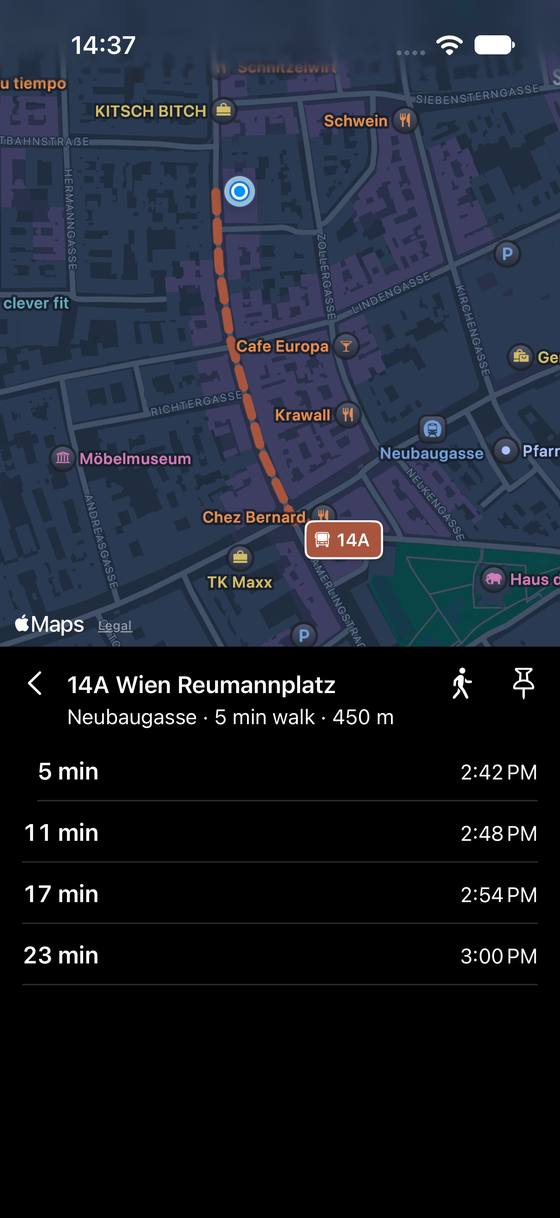
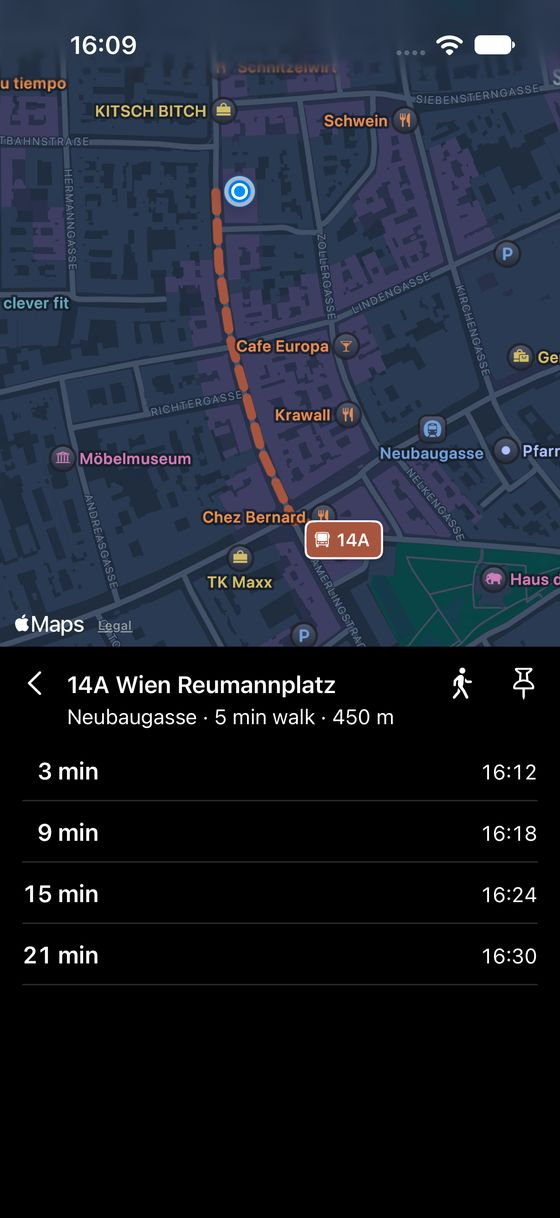
Record the stop line, dividers and swipe fixes, with new live captures
The fifth amendment's A34, A38 and A41 now describe the dividers at the
row's leading edge, the stop line under walk and pin to the 16 pt margin
with no wrapped line starting with a dot, and the swipe back from over
the map. The line screen's sketch and rules 21, 23 and 24 follow. The
captures are new live ones at 24-hour time, with the 48A before and
after for a long title and stop line.

diff --git a/docs/plans/ios-two-screens.md b/docs/plans/ios-two-screens.md
@@ -166,21 +166,22 @@ These choices filled the gaps. None has been reviewed by the owner.
 
 | ID | Question | Choice |
 | --- | --- | --- |
-| A34 | Which times share the column (O20) | The countdowns of the departures shown, "Now" included, right-aligned in a column as wide as the widest of them. The width is measured from the data, as for the badges on home (O15). A clock alone, for saved times or beyond the hour, keeps its place on the left. At accessibility sizes the stacked layout stays, with no column |
+| A34 | Which times share the column (O20) | The countdowns of the departures shown, "Now" included, right-aligned in a column as wide as the widest of them. The width is measured from the data, as for the badges on home (O15). A clock alone, for saved times or beyond the hour, keeps its place on the left. Every row's divider still starts at the row's leading edge, as before. At accessibility sizes the stacked layout stays, with no column |
 | A35 | When the choice is offered (O21) | Only when Google Maps is installed, which the app asks with `canOpenURL` on `comgooglemaps://`. Without it the button opens Apple Maps at once, as before, and a long press offers nothing. A remembered Google Maps that has been removed is forgotten, so after a reinstall the first tap asks again |
 | A36 | Where Google Maps goes | Walking directions to the stop's coordinate. Apple Maps opens as before, in walking mode to the platform |
 | A37 | The choice itself | A menu at the walk button, Apple Maps then Google Maps, with a checkmark on the remembered one. Picking an app opens it and remembers it, on this phone, for every line. The app names are not translated |
-| A38 | The controls under the map (O22) | Back (`chevron.backward`, spoken "Back"), the line and direction with the stop under them, then walk and pin, left to right. Plain symbols in the label colour, without glass capsules, each with a 44 × 44 pt target, aligned with the title's first line. The title wraps in full and is never truncated. The line is named once on the screen |
+| A38 | The controls under the map (O22) | Back (`chevron.backward`, spoken "Back"), the line and direction with the stop under them, then walk and pin, left to right. Plain symbols in the label colour, without glass capsules, each with a 44 × 44 pt target, aligned with the title's first line. The title wraps in full beside the buttons and is never truncated. The stop line below it runs from the title's leading edge to the list's 16 pt margin, under walk and pin, so a usual stop line fits on one line on a 402 pt phone. A no-break space keeps each "·" with the word before it, so a stop line that still wraps never starts with one. The line is named once on the screen |
 | A39 | The line screen at accessibility text sizes | As before: the bar holds back, walk and pin, and the map is a list row that scrolls away. A back button that scrolled out of reach would be worse than a bar |
 | A40 | Touches on the line map | Its strip under the status bar takes none, as on home (A26). The square pans and zooms as before (A17) |
-| A41 | Going back | The swipe from the left edge still goes back. Hiding the bar stopped it, so the app lets it begin again while the line screen is shown |
+| A41 | Going back | The swipe from the left edge goes back from every height, over the map as over the list. Hiding the bar stopped it, so the app lets it begin again while the line screen is shown. A pan that starts on the map, even 30 pt from the edge, still pans the map |
 | A42 | What replaces the ring (O23) | Nothing. The location dot stays at the centre, and the framing is unchanged |
 
 Found while implementing:
 
-- With the bar hidden, UIKit refuses the swipe from the left edge. The app takes over the gesture's delegate while the line screen is shown, and returns it afterwards, so the root screen never starts a pop it cannot finish.
+- With the bar hidden, UIKit refuses the swipe from the left edge: the system's own delegate for it turns it down in a private check of each event. The app takes over the gesture's delegate while the line screen is shown and returns it afterwards, so the root screen never starts a pop it cannot finish. It answers that event check and whether the swipe may begin, and passes every other delegate call to the system's delegate. That delegate settles the swipe against MapKit's pan: without it, the swipe went back over the list but not over the map. The first version of this change, reviewed at `9bd828f`, had that defect.
 - MapKit keeps the route inside the safe area, so inside the square: with the map reaching the top, both ends of the walk measured inside the square on iPhone 17 Pro and on the SE.
 - In UI tests, a fast horizontal drag that starts on a home row opened that row's line, on `main` as on this branch. A finger was not tried.
+- Not tried: VoiceOver's two-finger scrub to go back with the bar hidden. It needs VoiceOver on a phone.
 
 The sketches and the rules on the home map and the line screen below are updated.
 
@@ -218,11 +219,13 @@ The sketches and the rules on the home map and the line screen below are updated
 │                                          │
 │          ◉┄┄┄┄┄┄┐                        │  square map: the walking
 │                 ┆                        │  route from you to the stop
-│                 └┄┄▐13A▌                 │
+│                 └┄┄▐48A▌                 │
 │                                          │
 ├──────────────────────────────────────────┤
-│ ‹  13A Wien Skodagasse            🚶  ⚑  │  back · line · walk · pin (O22)
-│    Siebensterngasse · 1 min walk · 20 m  │
+│ ‹  48A Wien Parlament/            🚶  ⚑  │  back · line · walk · pin (O22);
+│    Volkstheater                          │  the title wraps beside them
+│    Burggasse/Neubaugasse · 5 min walk ·… │  the stop line runs under walk
+│                                          │  and pin, to the 16 pt margin (A38)
 │  2 min                            12:58  │  no "In" (A22), countdowns
 │  6 min                            13:02  │  right-aligned in one column (O20)
 │ 10 min                            13:06  │
@@ -303,10 +306,10 @@ The freshness rules in [ios-fast-answers.md](../ios-fast-answers.md) stay: a boa
 
 ### Line screen
 
-21. At standard text sizes the line screen has no bar (O22). Under the map, fixed above the list: the back button, spoken "Back", the line and its full destination, then the walk and pin buttons (A38). The swipe from the left edge goes back (A41). The walk button opens Apple Maps; with Google Maps installed its first tap offers both, a tap then opens the one used last, and a long press offers the choice again (O21, A35 to A37). At accessibility sizes the bar keeps back, walk and pin, as before (A39).
+21. At standard text sizes the line screen has no bar (O22). Under the map, fixed above the list: the back button, spoken "Back", the line and its full destination, then the walk and pin buttons (A38). The swipe from the left edge goes back, over the map as over the list (A41). The walk button opens Apple Maps; with Google Maps installed its first tap offers both, a tap then opens the one used last, and a long press offers the choice again (O21, A35 to A37). At accessibility sizes the bar keeps back, walk and pin, as before (A39).
 22. At standard text sizes the map has home's frame: a square under the status bar, and above it the strip under a status bar at least 44 pt tall, blurred by iOS (O22, A27). The strip takes no touch (A40); the square pans and zooms (A17). The map shows the walking route from the walking origin to the platform, the stop label and the user's location, inside the square. Without a route it shows both points. At accessibility sizes it is a square that scrolls away with the list.
-23. The stop is named once, with walking time and distance, directly under the line and its direction. Without a usable location it says "from this area", as today.
-24. Up to four departures follow. Each shows "N min" and the clock time (A22). The countdowns sit right-aligned in one column, as wide as the widest of them (O20, A34). Beyond 60 minutes it shows the clock time only. A live departure carries the live symbol, and "N min late" from one minute of delay. A scheduled departure carries nothing (A8).
+23. The stop is named once, with walking time and distance, directly under the line and its direction. It runs from the title's leading edge to the list's margin, under walk and pin, and wraps only after a "·" (A38). Without a usable location it says "from this area", as today.
+24. Up to four departures follow. Each shows "N min" and the clock time (A22). The countdowns sit right-aligned in one column, as wide as the widest of them (O20, A34). Each divider starts at the row's leading edge. Beyond 60 minutes it shows the clock time only. A live departure carries the live symbol, and "N min late" from one minute of delay. A scheduled departure carries nothing (A8).
 25. Nothing is crossed out or greyed. There is no advice card and no "Other lines at this stop".
 26. States mirror home: checking, "Couldn't load · Retry", saved clock times with "Refresh", and "Nothing in the next hour".
 

diff --git a/docs/ios-fast-answers.md b/docs/ios-fast-answers.md
@@ -22,9 +22,9 @@ Home has no navigation bar. Its map is a square that starts under the status bar
 
 Home's map shows one label per listed physical stop, including nearby pins. A label contains up to three line badges, then a count. Each badge is its line. A line that runs one way from the stop opens at once. A line that runs more than one way offers its directions at the badge, without times, and the one picked opens. "+N" offers the lines that have no badge. VoiceOver activates the label as a whole, which offers every row of the stop. Every tap counts, also on a label that is already selected: MapKit reports a selection only when it changes, so a tap recognizer on the map hears the taps and tells which badge was touched. Everything a label opens is also a row in the list. Map tiles never block departures.
 
-The line screen opens with home's two times, then requests up to four for that exact platform, line and direction. At standard text sizes it has no bar: its map has home's frame, the square under the status bar and, on a status bar at least 44 pt tall, the strip above it under iOS's blur, which takes no touch (`MapStrip` holds the rule for both screens). The square pans and zooms, and MapKit keeps the route and both ends inside it. Under the map, fixed above the list, sit back (spoken "Back"), the line and its full direction, wrapped and never truncated, then walk and pin: plain symbols with 44-pt targets aligned with the title's first line. The line is named once; `navigationTitle` stays set for VoiceOver and the back stack. Hiding the bar stops UIKit's swipe from the left edge, so `EdgeSwipeBack` lets it begin while the line screen is shown and returns the gesture's delegate afterwards. At accessibility sizes the screen keeps its bar with back, walk and pin, and the map is a list row that scrolls away. The stop appears once with walking time and distance, directly under the line and its direction. When the walk starts from the last area instead of a current position, it says so. A pinned route opened while location is off shows the stop alone.
+The line screen opens with home's two times, then requests up to four for that exact platform, line and direction. At standard text sizes it has no bar: its map has home's frame, the square under the status bar and, on a status bar at least 44 pt tall, the strip above it under iOS's blur, which takes no touch (`MapStrip` holds the rule for both screens). The square pans and zooms, and MapKit keeps the route and both ends inside it. Under the map, fixed above the list, sit back (spoken "Back"), the line and its full direction, wrapped and never truncated, then walk and pin: plain symbols with 44-pt targets aligned with the title's first line. The line is named once; `navigationTitle` stays set for VoiceOver and the back stack. The stop line under the title runs to the list's 16-pt margin, under walk and pin, and a no-break space keeps each "·" off the start of a wrapped line (`StopLine`). Hiding the bar stops UIKit's swipe from the left edge, so `EdgeSwipeBack` takes over the gesture's delegate while the line screen is shown: it lets the swipe begin, passes every other call to the system's delegate, which settles the swipe against MapKit's pan, and returns the delegate afterwards. The swipe then goes back from over the map as from the list, and a pan on the map still pans it. At accessibility sizes the screen keeps its bar with back, walk and pin, and the map is a list row that scrolls away. The stop appears once with walking time and distance, directly under the line and its direction. When the walk starts from the last area instead of a current position, it says so. A pinned route opened while location is off shows the stop alone.
 
-Each fresh departure shows its countdown and clock, "12 min" and "00:00"; VoiceOver says "In 12 min. 00:00". At standard sizes the countdowns sit right-aligned in one column as wide as the widest countdown shown, measured from the data (`CountdownColumn`), so the 4 of "4 min" stands above the 0 of "10 min". A clock alone keeps its place on the left. Beyond 60 minutes only the clock remains. Live departures have a symbol and a delay from one full minute; scheduled times carry no marker. Saved data shows clock times and one Refresh action. The walk button opens Apple Maps in walking mode to the platform. With Google Maps installed (`canOpenURL` on `comgooglemaps://`, listed in `LSApplicationQueriesSchemes`), its first tap offers Apple Maps and Google Maps; picking one opens it and remembers it, a tap then opens it directly, and a long press offers the choice again. Google Maps gets walking directions to the stop's coordinate. A remembered Google Maps that was removed is forgotten. The pin button pins the direction. There are no advice cards, crossed-out times or other-line sections.
+Each fresh departure shows its countdown and clock, "12 min" and "00:00"; VoiceOver says "In 12 min. 00:00". At standard sizes the countdowns sit right-aligned in one column as wide as the widest countdown shown, measured from the data (`CountdownColumn`), so the 4 of "4 min" stands above the 0 of "10 min". A clock alone keeps its place on the left. Every row's divider starts at the row's leading edge (`.listRowSeparatorLeading`), not at the right-aligned text. Beyond 60 minutes only the clock remains. Live departures have a symbol and a delay from one full minute; scheduled times carry no marker. Saved data shows clock times and one Refresh action. The walk button opens Apple Maps in walking mode to the platform. With Google Maps installed (`canOpenURL` on `comgooglemaps://`, listed in `LSApplicationQueriesSchemes`), its first tap offers Apple Maps and Google Maps; picking one opens it and remembers it, a tap then opens it directly, and a long press offers the choice again. Google Maps gets walking directions to the stop's coordinate. A remembered Google Maps that was removed is forgotten. The pin button pins the direction. There are no advice cards, crossed-out times or other-line sections.
 
 The map remains fixed through the largest standard text size. At accessibility sizes it is the square alone on every phone and scrolls away with the list, starting under the status bar. The system's scroll edge effect fades text passing under the status bar, so the status bar stays readable. Map badge text caps at 18 pt; list text uses the full preferred size. Rows are single VoiceOver elements without decorative state. App-drawn controls have at least 44-pt targets; native toolbar accessibility frames do not measure their hit regions.
 
